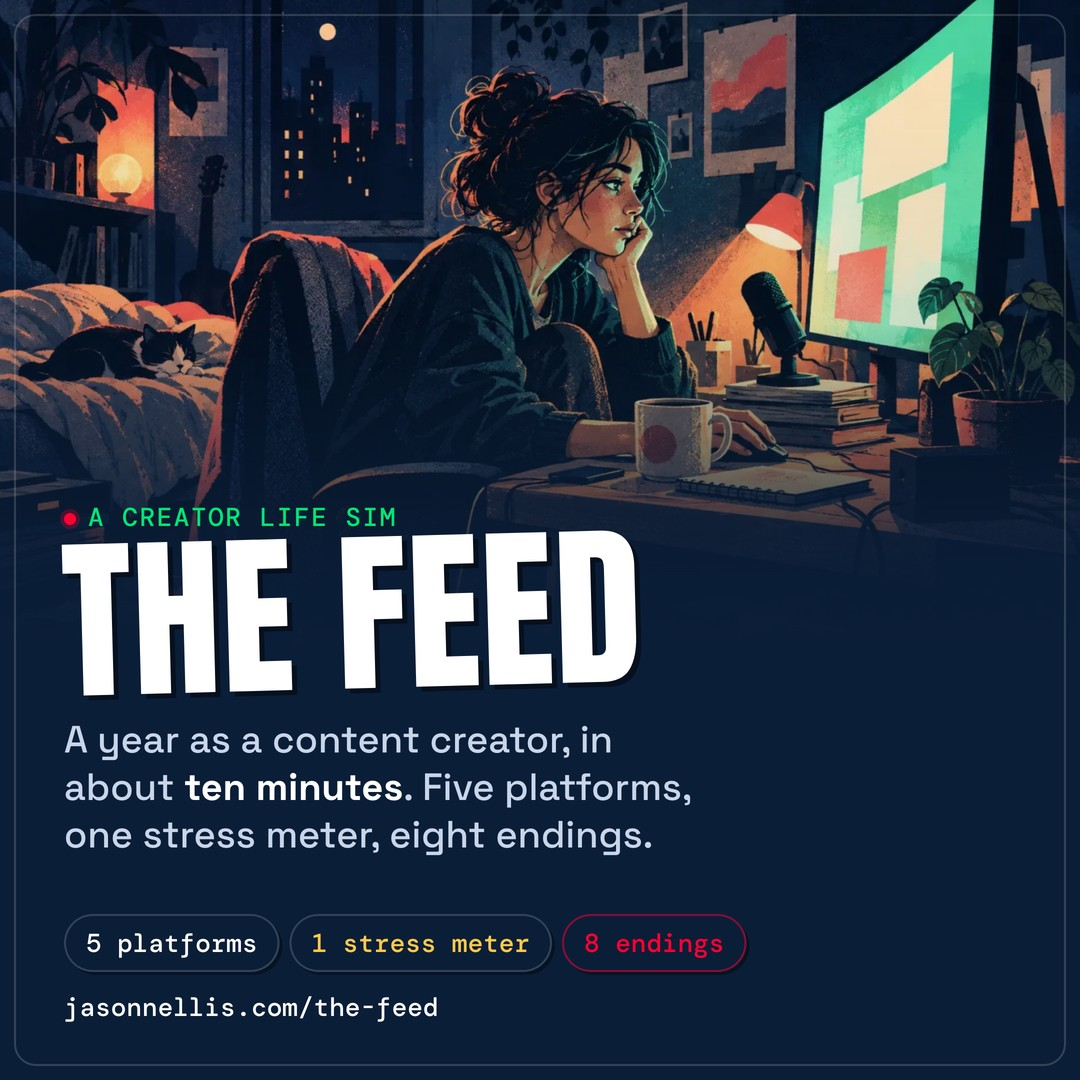
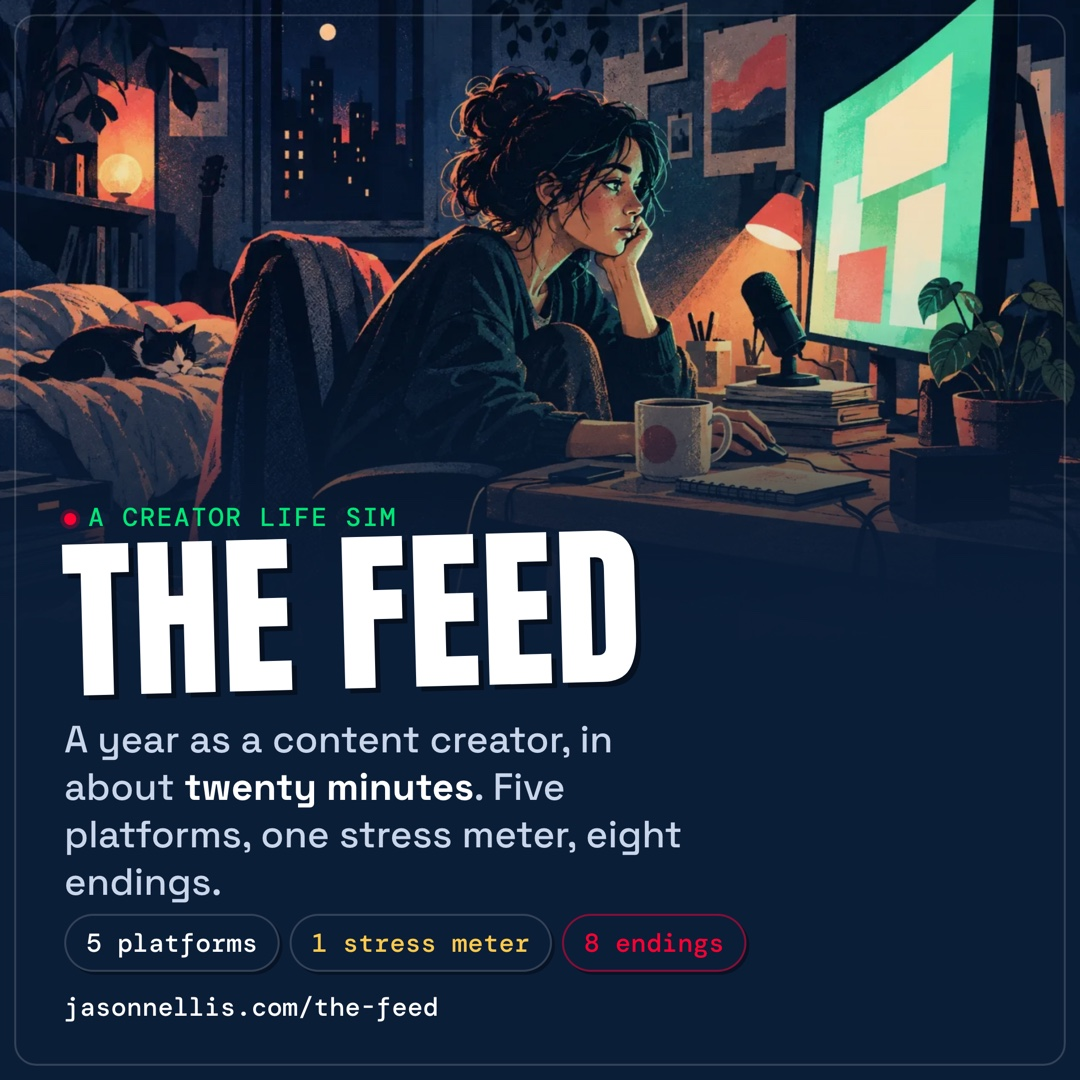
Site review 2026-09-22: fix-first pass + SuperBam/Live Shopping corrections
Content & accuracy
- SuperBam case study: drop leaking OG card (falls back to og-image.png),
  "someone's living room" -> "an employee's home"
- Remove withdrawn archived essay entirely
- Live Shopping was Meta's Commerce org, not NPE (essay, bio, speaker-kit)
- privacy: Substack -> Kit, date bump, contact org/budget + self-hosted video,
  broaden newsletter-box location
- lens: retire "roster read" CTA (sold a retired product); repoint share card
- advisory: demote full-time card to the documented one-line note
- contact: drop "Full-time role" budget option
- Feed/Burn Rate: "ten minutes" -> "about twenty minutes" (copy + OG cards)
- speaker-kit PDF: drop "to 2024"; regenerate

Infra & build
- netlify.toml: add security + caching headers
- Serve /blog and /experiments at 200 (permalinks + _redirects, kills 301 hop)
- speaking.html: add missing bolt-os body class
- the-feed.html: add canonical
- sitemap: drop talk <lastmod> (was today's date every deploy)
- ignore scratchpad/ in build and git

Assets regenerated: speaker-kit PDF, Feed OG cards (1200x630 + square)

diff --git a/privacy.html b/privacy.html
@@ -75,7 +75,7 @@
   <div class="page-wrap page-wrap--narrow">
 
     <div class="page-hero policy-hero">
-      <div class="section-eyebrow"><span class="num">00</span> Privacy &amp; legal · Last updated 16 September 2026</div>
+      <div class="section-eyebrow"><span class="num">00</span> Privacy &amp; legal · Last updated 22 September 2026</div>
       <h1>What this site<br>knows about you.</h1>
       <p class="lede">Not much, on purpose. Here is exactly what gets collected, why, who touches it, and what you can ask me to do about it.</p>
     </div>
@@ -85,7 +85,7 @@
       <ul>
         <li>No cookies. Analytics are cookieless and only ever aggregate.</li>
         <li>The only personal data I hold is what you send me through the contact form or by email.</li>
-        <li>Newsletter signups go to Substack. Video embeds don't talk to YouTube until you press play.</li>
+        <li>Newsletter signups go to Kit. Video embeds don't talk to YouTube until you press play.</li>
         <li>You can ask for a copy, a correction, or deletion at any time. Write to <a href="mailto:hello@jasonnellis.com">hello@jasonnellis.com</a>.</li>
       </ul>
     </aside>
@@ -102,7 +102,7 @@
         <h2><span class="num">02</span>What I collect, and why</h2>
 
         <h3>The contact form</h3>
-        <p>When you send a message through <a href="/contact">/contact</a>, I receive what you type: the topic, your name, your email address, your message, and for speaking enquiries the talk, event, date, format and audience size you fill in.</p>
+        <p>When you send a message through <a href="/contact">/contact</a>, I receive what you type: the topic, your name, your email address, your message, an optional company or organisation and rough budget, and for speaking enquiries the talk, event, date, format and audience size you fill in.</p>
         <dl class="facts">
           <dt>Purpose</dt><dd>To answer you, and to scope a talk, an engagement or a conversation you asked for.</dd>
           <dt>Legal basis</dt><dd>Steps taken at your request before entering a contract (GDPR art. 6(1)(b)), and my legitimate interest in replying to people who write to me (art. 6(1)(f)).</dd>
@@ -123,7 +123,7 @@
         <p>On <a href="/the-feed">The Feed</a> and Burn Rate a handful of anonymous events are also counted, such as a game being finished or an ending unlocked. None of them carry personal data.</p>
 
         <h3>The newsletter</h3>
-        <p>The subscribe box on the writing pages sends your email address straight to <a href="https://kit.com" target="_blank" rel="noopener">Kit</a>, which holds the <em>Building Value</em> list. Nothing is stored on this site, and no script from Kit runs on these pages &mdash; the form posts your address directly and nothing else. Kit processes your address on my behalf so I can send you the newsletter.</p>
+        <p>The subscribe boxes across the site &mdash; on the writing pages, the homepage, the experiments index and the podcast page &mdash; send your email address straight to <a href="https://kit.com" target="_blank" rel="noopener">Kit</a>, which holds the <em>Building Value</em> list. Nothing is stored on this site, and no script from Kit runs on these pages &mdash; the form posts your address directly and nothing else. Kit processes your address on my behalf so I can send you the newsletter.</p>
         <dl class="facts">
           <dt>Legal basis</dt><dd>Your consent (art. 6(1)(a)), given when you subscribe.</dd>
           <dt>Withdraw</dt><dd>Every issue has an unsubscribe link. That removes you from the list. You can also write to me.</dd>
@@ -131,7 +131,7 @@
         </dl>
 
         <h3>Embedded video</h3>
-        <p>Podcast clips on the speaking and podcast pages are embedded from YouTube in privacy-enhanced mode (youtube-nocookie.com). Nothing loads from Google and no cookie is set until you press play. Once you do, Google receives your IP address and handles the playback under <a href="https://policies.google.com/privacy" target="_blank" rel="noopener">its own privacy policy</a>.</p>
+        <p>Podcast clips on the speaking and podcast pages are embedded from YouTube in privacy-enhanced mode (youtube-nocookie.com). Nothing loads from Google and no cookie is set until you press play. Once you do, Google receives your IP address and handles the playback under <a href="https://policies.google.com/privacy" target="_blank" rel="noopener">its own privacy policy</a>. Some short clips are served directly from this site instead; those load from Netlify like any other file and contact no third party.</p>
 
         <h3>Hosting</h3>
         <p>The site is served by Netlify. Like any web host, Netlify keeps short-lived server logs (IP address, requested URL, time, browser) to keep the service running and to detect abuse. That is a legitimate interest (art. 6(1)(f)). Netlify retains these logs for a limited time under its own policy; I do not access them in the normal course of things.</p>

diff --git a/lens.html b/lens.html
@@ -10,11 +10,11 @@
 <meta property="og:url" content="https://jasonnellis.com/lens">
 <meta property="og:title" content="Is this creator building something, or renting attention?">
 <meta property="og:description" content="Three questions for telling creators who are building something from creators renting attention. None of them are about follower count.">
-<meta property="og:image" content="https://jasonnellis.com/og-talk-creators.jpg">
+<meta property="og:image" content="https://jasonnellis.com/og-image.png">
 <meta name="twitter:card" content="summary_large_image">
 <meta name="twitter:title" content="Is this creator building something, or renting attention?">
 <meta name="twitter:description" content="Three questions for telling creators who are building something from creators renting attention. None of them are about follower count.">
-<meta name="twitter:image" content="https://jasonnellis.com/og-talk-creators.jpg">
+<meta name="twitter:image" content="https://jasonnellis.com/og-image.png">
 <link rel="canonical" href="https://jasonnellis.com/lens">
 <link rel="icon" href="/favicon.ico" sizes="any">
 <link rel="icon" type="image/svg+xml" href="/favicon.svg">
@@ -166,8 +166,8 @@
         <div class="card lead">
           <span class="kind">Advisory</span>
           <h3>Have me read your roster.</h3>
-          <p>Send a shortlist. You get a straight read on each creator, which of the three tells they fail, and what that should mean for the deal. Two weeks, no dashboard.</p>
-          <a href="/contact?topic=advisory" class="btn primary">Book a roster read
+          <p>Reading creators against these three tells is part of how I work with platforms and brands: a straight read on each name, which of the tells they fail, and what that should mean for the deal. It starts with a call.</p>
+          <a href="/contact?topic=advisory" class="btn primary">Ask for the first call
             <svg width="14" height="14" viewBox="0 0 24 24" fill="none" stroke="currentColor" stroke-width="2" stroke-linecap="round" stroke-linejoin="round"><line x1="5" y1="12" x2="19" y2="12"/><polyline points="12 5 19 12 12 19"/></svg>
           </a>
         </div>

diff --git a/advisory.html b/advisory.html
@@ -114,8 +114,9 @@
   .side-callout h3 { font-size: 18px; font-weight: 600; color: #FFF; margin: 8px 0 10px; }
   .side-callout p { font-size: 14px; color: var(--fg-2); line-height: 1.7; margin: 0 0 16px; }
   .side-callout .bolt { margin-top: auto; }
-  .side-callout.door { border: 1px dashed var(--border-strong); background: transparent; }
-  .side-callout.door .section-eyebrow .num { color: var(--fg-3); }
+  .eng-extras--single { grid-template-columns: 1fr; }
+  .full-time-note { font-size: 14px; color: var(--fg-3); line-height: 1.7; margin: 20px 0 0; max-width: 62ch; }
+  .full-time-note a { color: var(--fg-2); text-decoration: underline; text-underline-offset: 2px; }
 
   /* ---- How I work ---- */
   .how-list { list-style: none; padding: 0; margin: 0; display: grid; grid-template-columns: 1fr 1fr; gap: 0 48px; }
@@ -320,13 +321,8 @@
           </div>
         </article>
       </div>
-      <div class="eng-extras">
-        <div class="side-callout door" id="full-time">
-          <div class="section-eyebrow"><span class="num">&ne;</span> Not an engagement</div>
-          <h3>Someone in the seat, full time.</h3>
-          <p>Not fractional and not counsel: the role, on your team, a hundred percent. That's a different conversation from anything on this page, and a much shorter list of companies. If yours is one, say so.</p>
-          <a href="/contact?topic=advisory" class="bolt">Tell me &rarr;</a>
-        </div>
+      <p class="full-time-note">Full time is a different conversation than anything on this page &mdash; and a much shorter list of companies. If yours is one, <a href="/contact?topic=advisory">say so</a>.</p>
+      <div class="eng-extras eng-extras--single">
         <div class="side-callout" id="workshop">
           <div class="section-eyebrow"><span class="num">+</span> Standalone workshop</div>
           <h3>A leadership workshop around one decision.</h3>

diff --git a/tools/the-feed-og/square-1080.html b/tools/the-feed-og/square-1080.html
@@ -28,6 +28,6 @@ h1{font-size:176px;margin:12px 0 18px}
 .sub{max-width:26ch;font-size:38px;color:#C9D6EA}
 </style></head><body><div class="card"><div class="art"></div><div class="scrim"></div><div class="frame"></div>
 <div class="txt"><div><div class="kick">A CREATOR LIFE SIM</div><h1>The Feed</h1>
-<p class="sub">A year as a content creator, in about <b>ten minutes</b>. Five platforms, one stress meter, eight endings.</p></div>
+<p class="sub">A year as a content creator, in about <b>twenty minutes</b>. Five platforms, one stress meter, eight endings.</p></div>
 <div><div class="chips"><span class="chip">5 platforms</span><span class="chip gold">1 stress meter</span><span class="chip red">8 endings</span></div>
 <div class="url" style="margin-top:18px"><b>jasonnellis.com/the-feed</b></div></div></div></div></body></html>

diff --git a/tools/the-feed-og/og-1200x630.html b/tools/the-feed-og/og-1200x630.html
@@ -27,5 +27,5 @@ h1{font-family:'Anton',Impact,sans-serif;font-weight:400;text-transform:uppercas
 h1{font-size:176px;margin:12px 0 20px}
 </style></head><body><div class="card"><div class="art"></div><div class="scrim"></div><div class="frame"></div>
 <div class="txt"><div><div class="kick">A CREATOR LIFE SIM</div><h1>The<br>Feed</h1>
-<p class="sub">A year as a content creator, in <b>ten minutes</b>.</p></div>
+<p class="sub">A year as a content creator, in about <b>twenty minutes</b>.</p></div>
 <div class="chips"><span class="chip">5 platforms</span><span class="chip gold">1 stress meter</span><span class="chip red">8 endings</span></div></div></div></body></html>

diff --git a/bio.html b/bio.html
@@ -491,7 +491,7 @@
           That urgency turned into a pattern: find something worth building and get to it before the
           rest of the room realizes it's worth building. It took me through <strong>Hulu's early
           years</strong>, a company I co-founded that <strong>Facebook acquired</strong>, a stint
-          building Live Shopping inside Meta as the team's first Founder in Residence, and eventually the
+          building Live Shopping inside Meta's Commerce org, and eventually the
           <strong>Interim CEO seat at SuperBam</strong>.
         </p>
 

diff --git a/the-feed.html b/the-feed.html
@@ -24,6 +24,7 @@
 <meta name="twitter:title" content="The Feed: a creator life sim">
 <meta name="twitter:description" content="A year as a content creator, in about twenty minutes. Five platforms, one stress meter, eight endings. Play free.">
 <meta name="twitter:image" content="https://jasonnellis.com/the-feed-assets/imgs/og-the-feed.jpg">
+<link rel="canonical" href="https://jasonnellis.com/the-feed">
 <link rel="icon" href="/favicon.svg">
 <!-- Site design system: DM Sans / DM Mono @font-face + Bolt OS tokens -->
 <link rel="stylesheet" href="/colors_and_type.css">

diff --git a/burn-rate.html b/burn-rate.html
@@ -324,7 +324,7 @@
         <div class="card">
           <div class="kind">The Feed</div>
           <h3>Now play the year</h3>
-          <p>A creator life sim. Five platforms, one stress meter, eight endings, about ten minutes. The same math, with consequences.</p>
+          <p>A creator life sim. Five platforms, one stress meter, eight endings, about twenty minutes. The same math, with consequences.</p>
           <a class="btn ghost" href="/the-feed">Play free</a>
           <p class="more-tools"><a href="/experiments">All experiments →</a></p>
         </div>

diff --git a/contact.html b/contact.html
@@ -236,7 +236,6 @@
               <option>The Second Chair · $10k</option>
               <option>The Six-Month Sprint · $48k + equity</option>
               <option>Leadership workshop · half day</option>
-              <option>Full-time role</option>
               <option>Speaking honorarium</option>
               <option>Not yet sure</option>
             </select>

diff --git a/speaking.html b/speaking.html
@@ -347,7 +347,7 @@
 </script>
 <script src="nav.js"></script>
 </head>
-<body>
+<body class="bolt-os">
 
 <a href="#main" class="skip-link">Skip to main content</a>
 

diff --git a/tools/build-speaker-kit.py b/tools/build-speaker-kit.py
@@ -225,11 +225,11 @@ section_eyebrow("03", "Track record", top)
 top += 16
 bullets = [
     "Co-founded Packagd — acquired by Meta (2019)",
-    "Built & launched Facebook Live Shopping inside Meta NPE",
+    "Built & launched Facebook Live Shopping in Meta's Commerce org",
     "CPO, then Interim CEO at SuperBam — creator IP",
     "Guest lecturer: Northwestern, Howard, Georgetown",
     "50+ VidCon interviews hosted on Meta's Super platform",
-    "Hosted Building Value — 100+ creator conversations, to 2024",
+    "Hosted Building Value — 100+ creator conversations",
 ]
 col_w = (CW - 20) / 2
 for i, b in enumerate(bullets):

diff --git a/essays/live-video-still-cant-figure-out-the-money.md b/essays/live-video-still-cant-figure-out-the-money.md
@@ -9,7 +9,7 @@ originalUrl: "https://www.linkedin.com/posts/jasonnellis_if-you-missed-made-on-y
 ---
 If you missed the Made on YouTube event, you missed a subtle but important signal: YouTube is still trying to figure out what live means for their creator economy, and the answer is still "maybe shopping?"
 
-I've been in this conversation in various forms since 2019, when I was building Facebook Live Shopping inside Meta's NPE team. The fundamental tension hasn't changed: live video is a great product for building connection and urgency, but it's a terrible product for completing commerce transactions. The two things want to happen at the same time, and they keep interrupting each other.
+I've been in this conversation in various forms since 2019, when I was building Facebook Live Shopping in Meta's Commerce org. The fundamental tension hasn't changed: live video is a great product for building connection and urgency, but it's a terrible product for completing commerce transactions. The two things want to happen at the same time, and they keep interrupting each other.
 
 The shopping experience breaks the viewing experience. The viewing experience breaks the shopping experience. The creator has to choose which one they're doing every thirty seconds. The viewer has to do the same. And the platform is in the middle trying to capture both moments with one interface.
 
